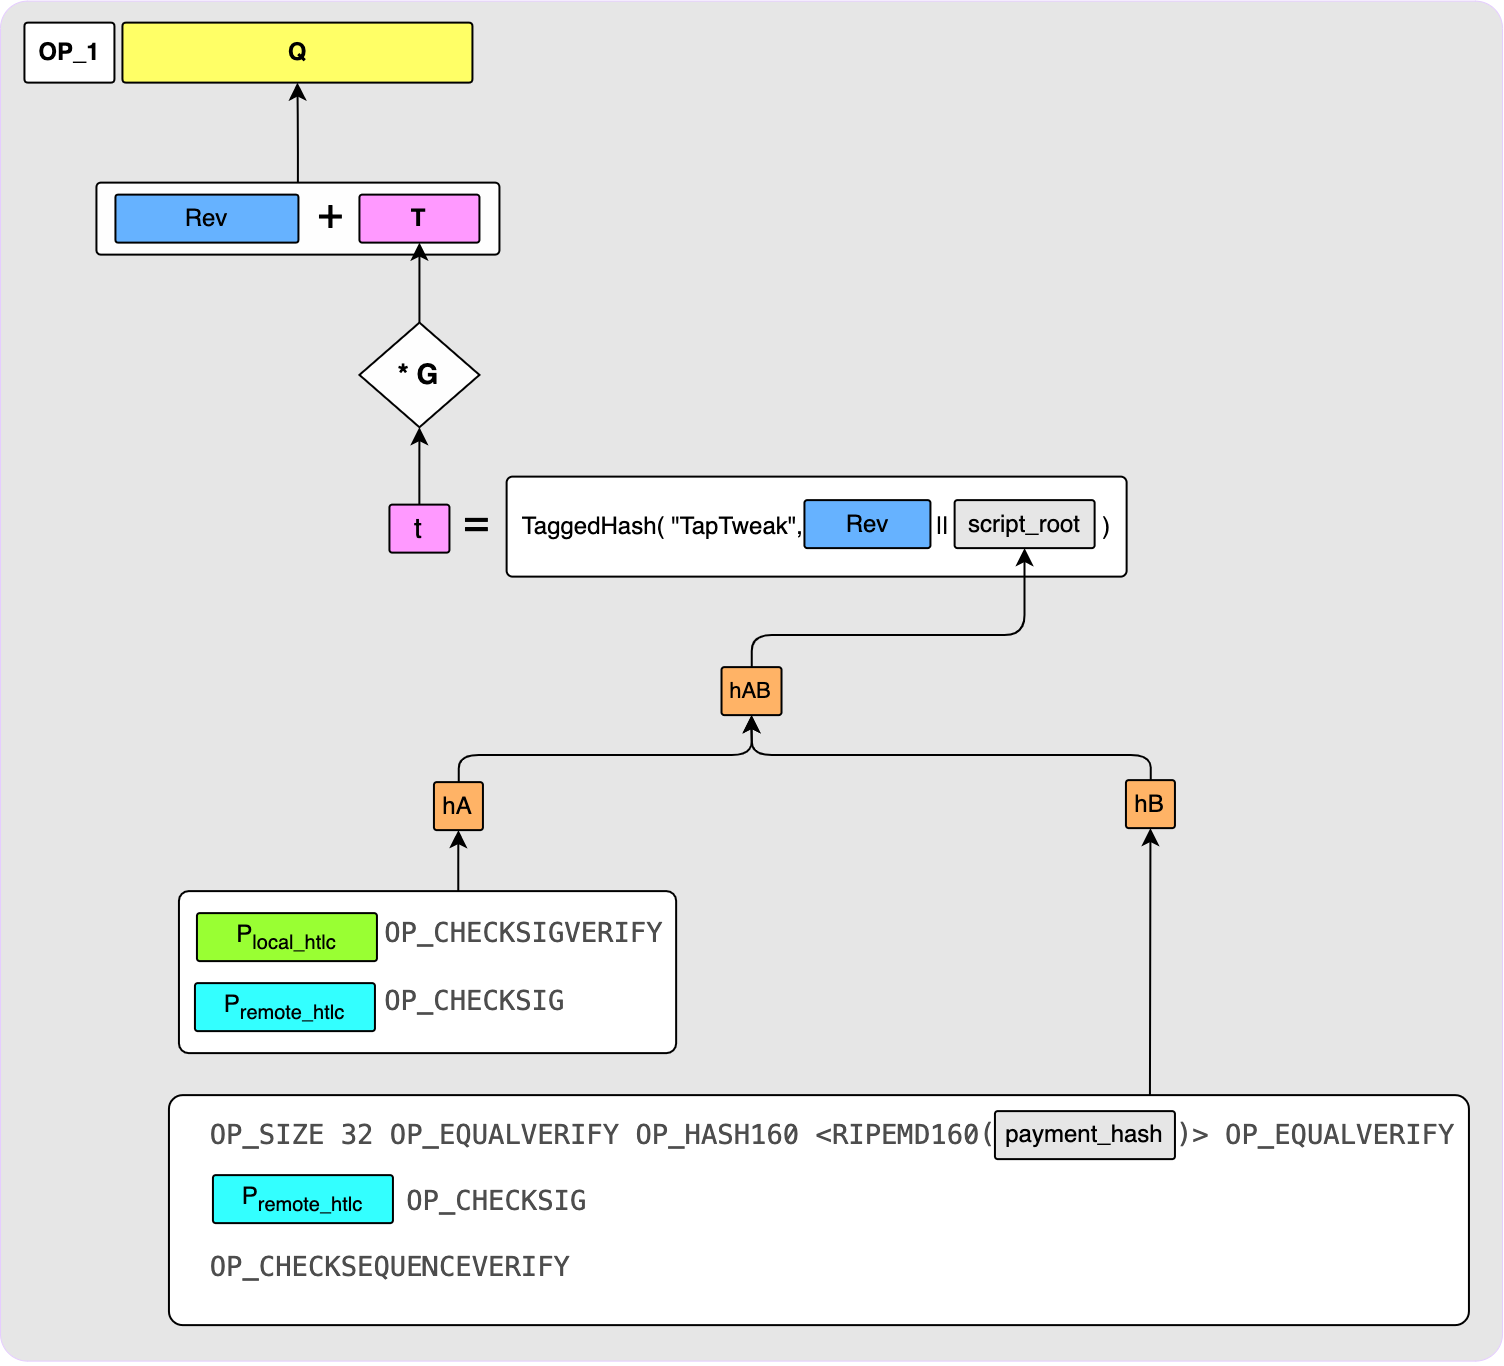
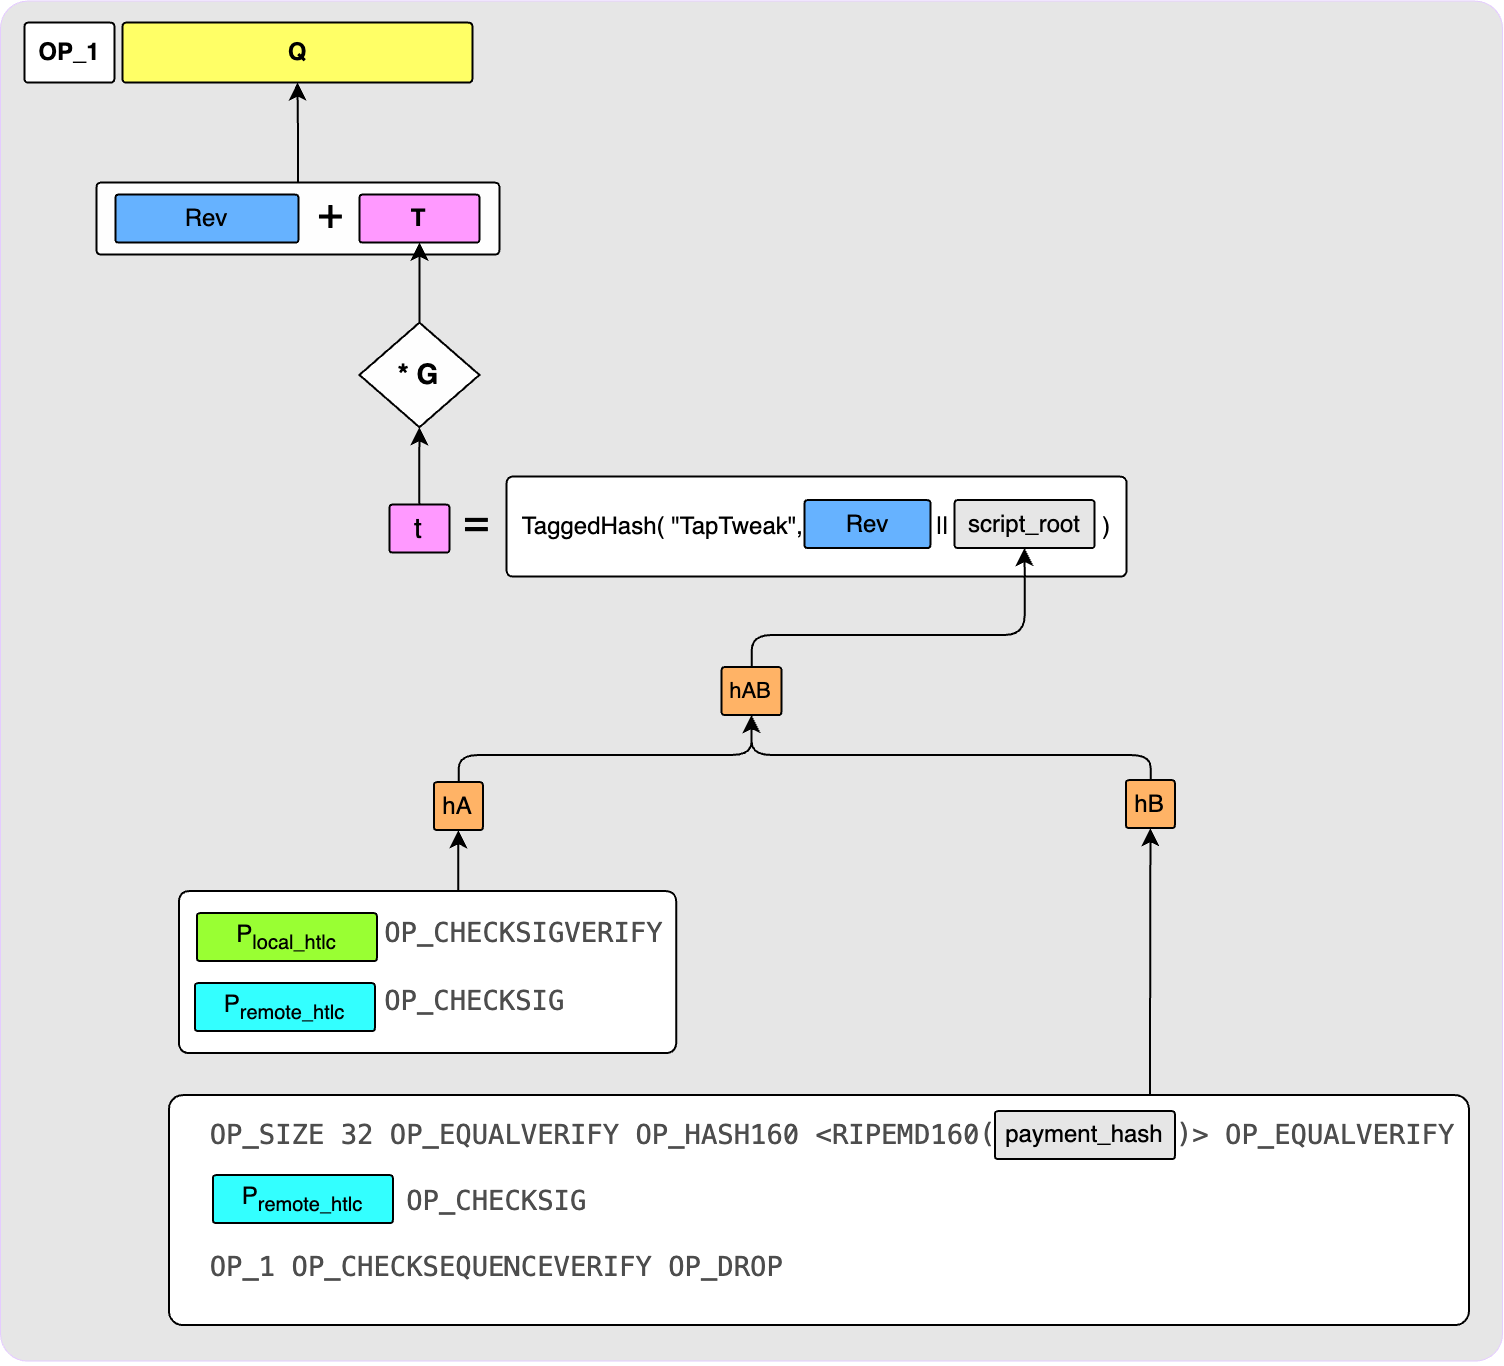
update

Changed region(s): [[0.1875, 0.9224, 0.5312, 0.9531], [0.6562, 0.3997, 0.6875, 0.4305]]

diff --git a/source/_posts/taproot-channel-translations-how-it-works.md b/source/_posts/taproot-channel-translations-how-it-works.md
@@ -26,16 +26,19 @@ tags:
 
 在本文中，我会探究基于 Taproot 的闪电通道（下文简称 “Taproot 通道”）的注资交易和承诺交易的结构。如果你错过了我的[上一篇文章](https://ellemouton.com/posts/taproot-prelims)（关于 Taproot 和 MuSgi2）（[中文译本](https://www.btcstudy.org/2023/04/27/taproot-and-musig2-recap-by-elle-mouton/)），可能先读一下它会比较好，可以帮你先了解一下这篇文章需要用到的各种模块。如果你还需要回顾承诺交易的一般结构，请看[这篇文章](https://ellemouton.com/posts/htlc-deep-dive)，我在里面解释了承诺交易的各个输出为什么要有那样的脚本装置。
 
-提醒一下，Taproot 通道依然在设计阶段，所以，在 Roasbeef 的[这份提议](https://github.com/lightning/bolts/pull/995)被合并之前，这篇文章还会继续更改，以跟上人们对提议作出的变更。甚至目前的提议中也还有几个悬而未决的问题，我会尝试在这里说明。
+提醒一下，Taproot 通道依然在设计阶段，所以，在 Roasbeef 的[这份提议](https://github.com/lightning/bolts/pull/995)被合并之前，这篇文章还会继续更改，以跟上人们对提议作出的变更。当前它匹配到了提议的 [e95e7a](https://github.com/lightning/bolts/pull/995/commits/e95e7acbda14e07fa53c1389f952481b822db795) 版本。
 
 如果你以前读过我的文章，你应该已经注意到了，我喜欢画图。这篇文章是变本加厉了。为了帮助理解，这里的图例说明了每一种颜色一般来说代表了什么
 
 ![img](../images/taproot-channel-translations-how-it-works/colour-legend.png)
 
-<p style="text-align:center">- 译者注：绿色代表签名者公钥及其签名；蓝色代表通道对手的公钥和签名；紫色代表两者的局和公钥；粉色代表调整项；黄色代表输出公钥和输出公钥的签名；橙色是 TapTree 上的哈希值；灰色和白色没有特殊的含义 -</p>
-
+<p style="text-align:center">- 译者注：绿色代表己方的公钥及其签名；蓝色代表通道对手的公钥和签名；紫色代表两者的聚合公钥；粉色代表调整项；黄色代表输出公钥和输出公钥的签名；橙色是 TapTree 上的哈希值；灰色和白色没有特殊的含义 -</p>
 
 准备好了吗？跟我来！
+
+## NUMS 点简介
+
+NUMS 是 “nothing-up-my-sleeves（此中无后门）” 的缩写，是一个没有人知道其私钥的公钥，由一个绑定到使用它的语境的字符串派生而来。用在 taproot 通道中的 NUMS 点由字符串 “Lightning Simple Taproot” 使用这个 [NUMS 生成工具](https://github.com/lightninglabs/lightning-node-connect/tree/master/mailbox/numsgen)派生而来。因为没有人知道这个点的私钥，所以它可以用作一个 Taproot 输出的内部公钥，从而取消掉这个输出的密钥花费路径，因为没有人能生成出它的有效签名。
 
 ## 注资交易的输出
 
@@ -63,37 +66,35 @@ tags:
 
 ### `to_local` 输出
 
-`to_local` 输出负责给自己支付通道余额。这个输出必须能够被对手随时撤销、仅能在 `to_self-delay` 个区块后自己才能从中花费。这个撤销密钥也用作这个 Taproot 输出的内部公钥；而带有时间锁的、给自己支付的脚本则放在 TapTree 。
+`to_local` 输出负责给自己支付通道余额。这个输出必须能够被对手随时撤销、仅能在 `to_self-delay` 个区块后自己才能从中花费。如你所见，这些路径都被做成 Taproot 叶子，加到了 Taproot 树上；并且，这个输出还使用了一个公开的 NUMS 点作为内部公钥，这就取消了密钥花费路径。你可能会问，为什么不拿撤销密钥作为内部公钥。这是个好问题，因为事实上，前 Taproot  的通道就是这样做的。但是，你可以从图中看出，撤销脚本不仅包含了撤销公钥，还（奇怪地）包含了  `P_local_delay` 密钥。而且，这个密钥后面并没有跟着  `OP_CHECKSIG`，反而只跟着一个  `OP_DROP`，这就意味着，不需要为这个公钥提供签名。所需的只是这个公钥在脚本中公开。 在撤销路径中公开 `P_local_delay` ，是不能使用撤销公钥作为内部公钥的唯一理由。这样设计的理由会在下文讲解 “己方锚点输出” 的章节得到更清楚的描述。我保证，是一个非常棒的理由 ; )
 
 ![img](../images/taproot-channel-translations-how-it-works/to-local-output.png)
 
-**密钥路径花费**
-
-这个输出的内部公钥就是撤销密钥，因此 *只能* 在跟这笔承诺交易相关的状态被撤销时才能被对手花费（关于撤销操作，更多细节见 [这里](https://ellemouton.com/posts/updating-state) 和 [这里](https://ellemouton.com/posts/revocation)）。因此，如果你自己尝试欺骗对手、发布旧的状态，对手就可以通过密钥路径（同时也是最高效的花费路径）拿走这个输出中的资金。
-
-![img](../images/taproot-channel-translations-how-it-works/to-local-key-path.png)
-
-（译者注：这个撤销密钥是通过双方提供的公钥构造出来的，所以在己方提供秘密值（私钥）之后，对手方就能构造出整个密钥背后的私钥；也只有对手方能构造出来，己方是无法构造出来的，因为不知道对手的秘密值。）
-
 **脚本路径花费**
 
-如果这笔承诺交易最终被广播道了链上，并且是诚实的、强制关闭通道的行为，那么对手就不能通过撤销密钥来花费。在这种条件下，这个输出是可以被己方通过脚本路径来花费的（在得到 `to_self_delay` 个区块的确认之后）。下图展示了花费这个路径所需的见证脚本：
+因为内部公钥是一个 NUMS 点，所以只能通过密钥路径来花费这个输出。
 
-![img](../images/taproot-channel-translations-how-it-works/to-local-script-spend.png)
+- 撤销路径
 
-这包含了一个对 `local_delayed` 脚本有效的见证数据，也就是来自己方的公钥 `P_local_delayed` 的一个有效签名。这个脚本自身也必须被公开，而且最后，控制块也必须展现出来。在这个案例中，控制块只包含 `to_local` 输出的输出公钥的奇偶位校验以及内部公钥。注意，这里的控制块不需要包含证据，因为这棵 Taproot 脚本树上只有一个脚本，意思是脚本数的根植可以从 `local_delayed` 脚本直接计算出来。
+如果这笔承诺交易最终被广播到了链上，而且它所代表的状态已经被撤销了，那么对方将可以通过撤销路径取走所有的资金。所需的见证脚本如下：
+
+![img](../images/taproot-channel-translations-how-it-works/to-local-revocation-script.png)
+
+- `To-local delay` 路径
+
+如果这笔承诺交易最终被广播到了链上，并且是诚实的、强制关闭通道的行为，那么对手就不能通过撤销路径来花费。在这种条件下，这个输出是可以被己方通过 `to_local delay` 脚本路径来花费的（在得到 `to_self_delay` 个区块的确认之后）。下图展示了花费这个路径所需的见证脚本：
+
+![to-local-delay-script-path](../images/taproot-channel-translations-how-it-works/to-local-delay-script-path.png)
+
+这包含了一个对 `local_delay` 脚本有效的见证数据，也就是来自己方的公钥 `P_local_delayed` 的一个有效签名。这个脚本自身也必须被公开，而且最后，控制块也必须展现出来。在这个案例中，控制块包含 `to_local` 输出的输出公钥的奇偶位校验以及内部公钥（NUMS 点），还有  `to-local delay` 脚本被包含在这棵树上的证据。
 
 ### `to_remote` 输出
 
-这个输出给远程方支付通道的余额。因为在所有锚点通道中，任何非锚点的输出都需要至少长达 1 个区块的 CSV（相对时间锁），这样才能保证不打破 [CPFP carve out](https://bitcoinops.org/en/topics/cpfp-carve-out/) 规则。因此，远程方也只能在这个输出获得 1 个区块的确认之后才能花费这笔资金。这种要求只能通过一个脚本来实现，所以这个输出也要用到 Taproot 脚本树。
+这个输出给对手方支付通道的余额。因为在所有锚点通道中，任何非锚点的输出都需要至少长达 1 个区块的 CSV（相对时间锁），这样才能保证不打破 [CPFP carve out](https://bitcoinops.org/en/topics/cpfp-carve-out/) 规则。因此，对手方也只能在这个输出获得 1 个区块的确认之后才能花费这笔资金。这种要求只能通过一个脚本来实现，所以这个输出也要用到 Taproot 脚本树。
 
 ![img](../images/taproot-channel-translations-how-it-works/to-remote-output.png)
 
-你可能会认为这张图有一个错误：我在前面说过，我们需要在这里执行一个 CSV，但这个脚本中没有 `OP_1` 来表示时间锁的长度。事实上，这不是一个错误，而是一个很酷的脚本编程技巧！如果 `<remotepubkey> OP_CHECKSIG` 检查失败了，那么这个脚本立即就会退出。但是，如果它通过了，它会给堆栈推入一个 `OP_1`，让我们的 CSV 得到时间锁的长度。不过，若是为了清晰好读，这样的技巧可以用更明显的 `OP_1 OP_CHECKSEQUENCEVERIFY` 来替代。
-
-此刻，你可能还关心这个内部公钥。我们只需要为这个输出设置一个花费路径，但不幸的是，这个路径我们只能放到脚本树中。而且，我们还必须设置一个内部公钥，即使我们并不希望任何人能够有用这个密钥路径来花费它。从图中你可以看出，当前的提议使用跟注资交易输出相同的聚合公钥作为 `to_remote` 输出的内部公钥。这里的想法是，如果拿 `P_agg` 作为内部公钥，我们就知道它需要双方的合作才能使用密钥路径，但他们是完全没有理由要这样做的。实际上就是取消了密钥路径。
-
-一些[审核者](https://github.com/lightningnetwork/lnd/pull/7333#discussion_r1082384984)注意到，使用 `P_agg` 作为内部公钥让对手方的资金几乎不可能复原：如果他们弄丢了所有的通道数据、所有的通道备份、只剩下自己的种子词；在传统的通道中，弄丢了通道数据的对手方依然可以扫描区块链、寻找属于他们的 `to_remote` 输出，因为他们知道推导出这些公钥的推导路径；如果在 Taproot 通道中使用 `P_agg` 作为内部公钥，因为对手方自己不可能推导出它，所以也就无法通过扫描区块链来找回自己的资金。之前，有人提议不使用 `P_agg`，而使用一个公开的 “NUMS（此中无后门）” 点（即没有人知晓其私钥的公钥），那么对手方就可以重新获得扫描属于自己的 `to_remote` 输出的能力。
+类似于  `to_local` 输出，这个输出也使用 NUMS 点作为内部公钥，以禁用密钥花费路径。 
 
 **脚本路径花费**
 
@@ -119,7 +120,7 @@ tags:
 
 ![img](../images/taproot-channel-translations-how-it-works/remote-anchor-script-path.png)
 
-注意到什么了吗？如果你是一个第三方，尝试从一些已经过时的锚点输出中得到一些免费的聪，你能复原出这个脚本吗？答案是：可以，但你要知道 `P_remote` 是什么才行！在继续往下读之前，我建议你花点时间来想想为什么你可能知道这个 `P_remote`。它不是在注资交易中表现出来e，也不是在承诺交易中表现出来的。浏览上文的图表，看看你在哪里能找到它。
+注意到什么了吗？如果你是一个第三方，尝试从一些已经过时的锚点输出中得到一些免费的聪，你能复原出这个脚本吗？答案是：可以，但你要知道 `P_remote` 是什么才行！在继续往下读之前，我建议你花点时间来想想为什么你可能知道这个 `P_remote`。它不是在注资交易中表现出来的，也不是在承诺交易中表现出来的。浏览上文的图表，看看你在哪里能找到它。
 
 准备好了吗？没错，只要 `to_remote` 输出被花费了，它就会出现在见证脚本中。这意味着，任何人都能在这个输出得到 16 个区块的确认且 `to_remote` 被花费之后，花费这个锚点输出。
 
@@ -137,13 +138,9 @@ tags:
 
 **脚本路径花费**
 
-就像对手方的锚点输出，想要通过脚本路径来花费它，需要你先揭晓 `P_local_delayed` 公钥。这个公钥会在你使用脚本路径来花费 `to_local` 输出时曝光。
+就像对手方的锚点输出，想要通过脚本路径来花费它，需要你先揭晓 `P_local_delayed` 公钥。这个公钥会在你使用脚本路径来花费 `to_local` 输出时曝光；*而且*，重要的是，通过撤销路径来花费  `to_local` 输出时也会将它曝光！这就是我们不能将撤销公钥作为  `to_local` 输出的内部公钥的全部理由，也是我们要让撤销路径的脚本也曝光 `P_local_delayed` 公钥的理由。从下面这个见证脚本中，我们可以看出为什么知晓 `P_local_delayed` 是人们通过脚本路径来花费这个锚点输出的必要条件。如果这个公钥没有被公开，这个锚点输出就有可能一直悬停在 UTXO 集中，因为第三方不知道如何花费它。
 
 ![img](../images/taproot-channel-translations-how-it-works/local-anchor-script-path.png)
-
-不过，`to_local` 和 `to_remote` 输出有一个非常重要的区别：`to_remote` 只能被脚本路径花费，因此 `P_remote` 一定会在它花费时被公开；而 `to_local` 输出有两种花费路径！理想情况下，它会被脚本路径花费，从而让 `P_local_delayed` 揭晓，这就没有问题；但在糟糕的情况下，`to_local` 会通过撤销密钥来花费，这时候 `P_local_delayed` 就不会公开。这时候，只有这条通道的两个参与者才知道花费这个 local 锚点所需的信息。
-
-人们正在提议的一种替代办法是改变 `to_local` 输出，使得 `P_local_delayed` 被强制公开，无论 `to_local` 怎么花费。这可以通过将密钥路径改成一个 NUMS 点、将撤销路径放进脚本树里面、在撤销脚本中嵌入 `P_local_delayed` 来实现。缺点在于，这会增加 `to_local` 输出的两条路径的花费成本。问题在于我们想在多大程度上解决这种非常罕见的情况。
 
 ### 付出 HTLC 的输出
 
@@ -165,7 +162,7 @@ tags:
 
 对方成功揭晓秘密值，可提供下列见证脚本来花费这个输出：
 
-![img](../images/taproot-channel-translations-how-it-works/offerend-htlc-success.png)
+![img](../images/taproot-channel-translations-how-it-works/offered-htlc-success.png)
 
 - 超时回收
 
